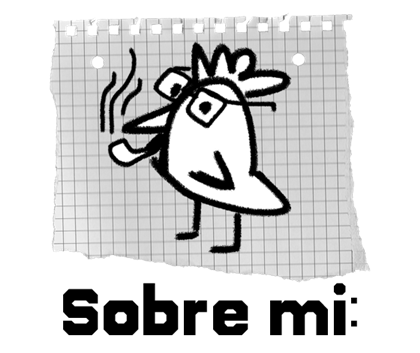
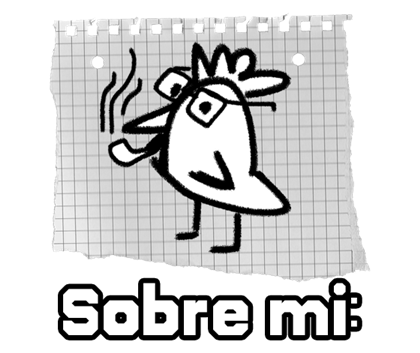
docs: actualizar pollo.png y agregar seccion Privacidad y datos

Changed region(s): [[0.1238, 0.779, 0.8667, 0.966]]

diff --git a/README.md b/README.md
@@ -167,6 +167,14 @@ Mi propuesta es distinta: una aplicación **ligera**, **completamente local** y 
 
 Espero que sea de tu agrado. Cualquier comentario o reseña será tomado en cuenta para seguir mejorando y dándole soporte a este proyecto.
 
+## Privacidad y datos
+
+**Swiss Duelist es una aplicación completamente local.** No se conecta a internet, no requiere crear una cuenta y no envía información a ningún servidor externo.
+
+La aplicación guarda **únicamente la información de tus torneos** — nombres de los duelistas, emparejamientos y resultados — en una **base de datos SQLite local**, dentro de tu propia computadora. No recopila datos personales, de uso, ni de ningún otro tipo.
+
+Y tienes el **control total**: puedes **eliminar cualquier torneo directamente desde la aplicación** (botón de borrar en la sección Torneos), y con él desaparece toda su información guardada.
+
 ## Aviso legal
 
 El arte de **Yu-Gi-Oh!** utilizado en la interfaz es propiedad de **Konami / Studio Dice**. Este es un proyecto **fan-made y sin fines de lucro**, creado para organizar torneos locales.
